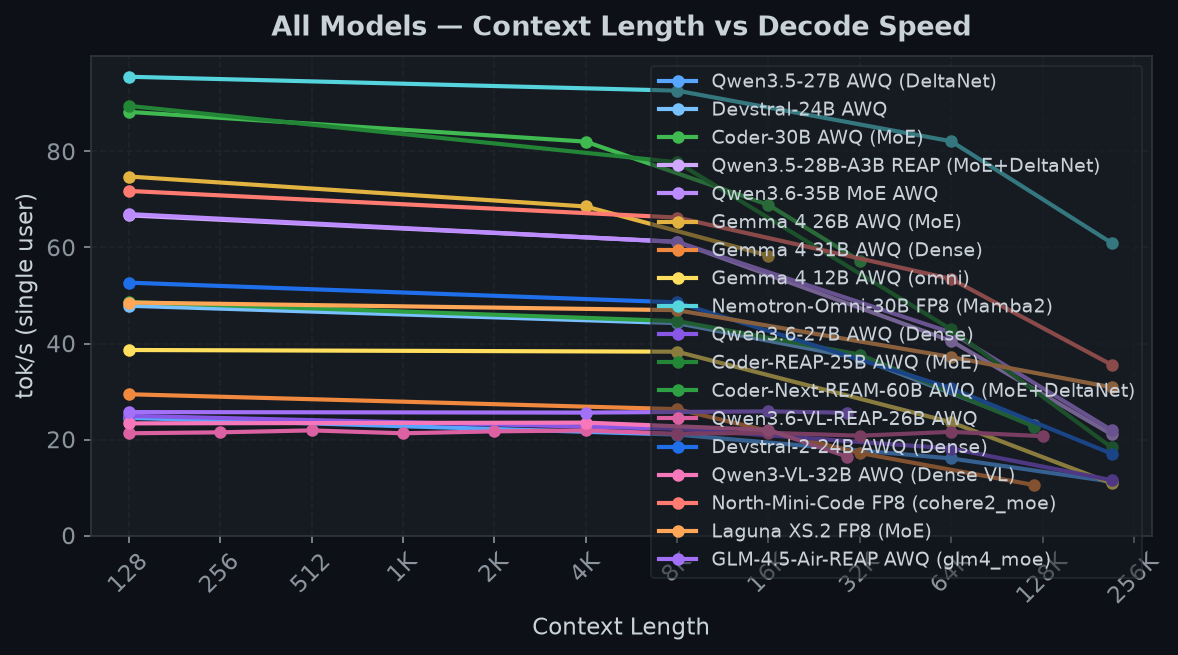
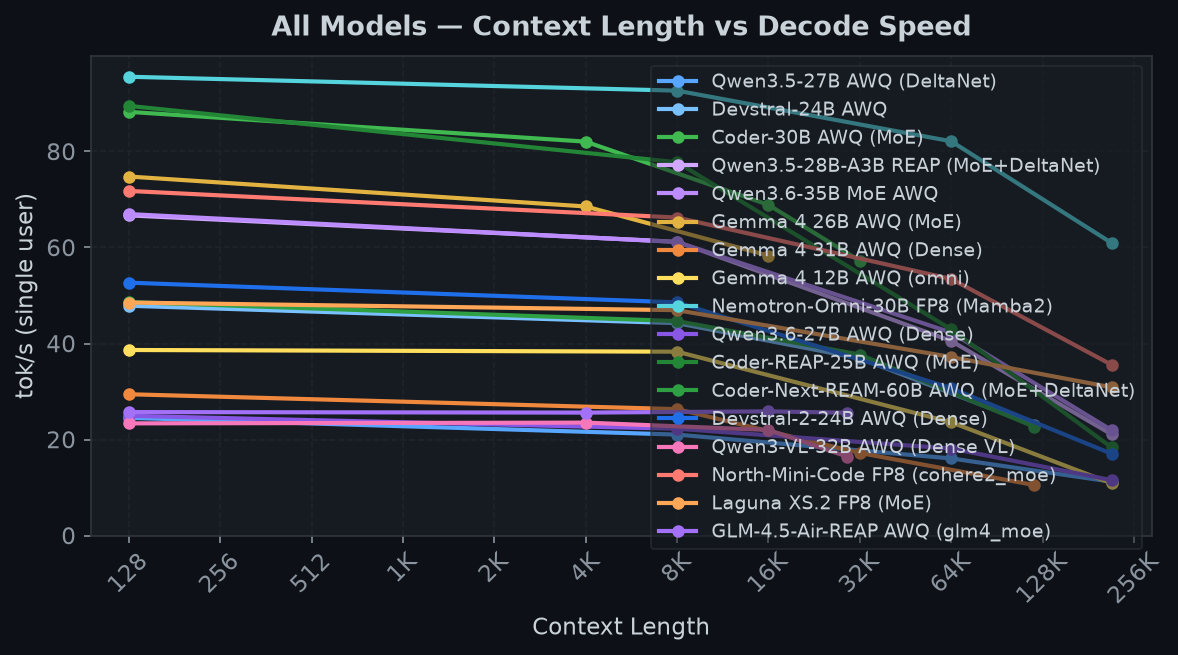
Audit + fix bench_serving half-depth bug (cross-team 3090 note)
The 3090 team flagged that sglang.bench_serving --dataset-name random
defaults --random-range-ratio to 0.0, which draws each prompt's length
uniform in [1, N] (compute_random_lens -> randint(1, N+1)) ~= half the
labeled depth. Audited our tree:

Current headline results are IMMUNE: the README fleet table and
all_models_context.png come from decode_ab.py (one deterministic
full-length prompt, server-reported actual input-token counts), not
bench_serving random. Patch 086's 2.14x 256K number is an A/B on the
identical prompt, so it holds regardless.

Two exposures found and fixed:
- scripts/bench/bench_all_unified.py drove bench_serving random with no
  --random-range-ratio -> pinned to 1 (exactly N tokens per prompt).
- qwen3.6-vl-reap-26b-a3b-awq was in the generate_charts allowlist but its
  only data is bench_serving-sourced (flat ~21 tok/s to 131K = the tell),
  and it is not in the README table -> removed from the allowlist and
  all_models_context.png regenerated (17 immune curves = the table).

13 legacy bench_serving result JSONs flagged as depth-suspect; none back a
current table row (most superseded by the 2026-07-12 decode_ab sweep).
Full audit + follow-ups: benchmarks/bench-serving-audit-2026-07-14.md.
README carries an R9700 reply to the 3090 note; benchmarks/README.md gets
a depth-measurement warning.

Claude-Session: https://claude.ai/code/session_015WWeWnn5obCT6KbydHXKhC

Changed region(s): [[0.0917, 0.6107, 0.9168, 0.8855], [0.9474, 0.855, 0.9779, 0.8855]]

diff --git a/scripts/bench/generate_charts.py b/scripts/bench/generate_charts.py
@@ -43,7 +43,13 @@ MODELS = {
     "qwen3.6-27b-awq-native":   {"label": "Qwen3.6-27B AWQ (Dense)",           "color": "#8957e5"},
     "qwen3-coder-reap-25b-a3b-awq": {"label": "Coder-REAP-25B AWQ (MoE)",      "color": "#238636"},
     "coder-next-ream-awq":      {"label": "Coder-Next-REAM-60B AWQ (MoE+DeltaNet)", "color": "#2ea043"},
-    "qwen3.6-vl-reap-26b-a3b-awq":  {"label": "Qwen3.6-VL-REAP-26B AWQ",       "color": "#db61a2"},
+    # qwen3.6-vl-reap-26b-a3b-awq intentionally excluded: its only results.json is
+    # from the buggy sglang.bench_serving path (--random-range-ratio default 0.0 ->
+    # uniform [1,N] prompt lengths), so its deep-context points are ~half-depth
+    # coin flips (flat ~21 tok/s from 128 to 131K is the tell). It is not in the
+    # README fleet table and was not re-benched with decode_ab in the 2026-07-12
+    # sweep. Re-add only after an immune decode_ab re-bench. See
+    # benchmarks/bench-serving-audit-2026-07-14.md.
     "devstral2-awq":            {"label": "Devstral-2-24B AWQ (Dense)",        "color": "#1f6feb"},
     "qwen3vl-32b-awq":          {"label": "Qwen3-VL-32B AWQ (Dense VL)",       "color": "#f778ba"},
     "north-mini":               {"label": "North-Mini-Code FP8 (cohere2_moe)", "color": "#ff7b72"},

diff --git a/scripts/bench/bench_all_unified.py b/scripts/bench/bench_all_unified.py
@@ -29,6 +29,13 @@ def run_bench_serving(port, model, input_len, output_len, num_prompts, request_r
         "--dataset-name", "random",
         "--random-input", str(input_len),
         "--random-output", str(output_len),
+        # REQUIRED: without this, --random-range-ratio defaults to 0.0, which draws
+        # each prompt's length uniform in [1, input_len] (compute_random_lens ->
+        # randint(1, input_len+1)). That silently measures ~half the labeled depth
+        # (a coin flip per request), so labeled-@256K rows are really ~128K-average.
+        # 1.0 pins every prompt to exactly input_len. See the 2026-07-14 depth-bug
+        # audit: benchmarks/bench-serving-audit-2026-07-14.md.
+        "--random-range-ratio", "1",
         "--num-prompts", str(num_prompts),
         "--request-rate", str(request_rate),
         "--disable-ignore-eos",

diff --git a/benchmarks/bench-serving-audit-2026-07-14.md b/benchmarks/bench-serving-audit-2026-07-14.md
@@ -1,0 +1,49 @@
+# R9700 audit — bench_serving half-depth bug (2026-07-14)
+
+Response to the 3090 team's cross-team note: `sglang.bench_serving --dataset-name random`
+defaults `--random-range-ratio` to `0.0`, and `compute_random_lens(full_len, 0.0, n)` returns
+`randint(1, full_len+1)` — every prompt's length is drawn **uniform in [1, N]**, averaging ~N/2. Any
+labeled-@256K decode row from that path is really a ~128K-average coin flip. Immune sources: server-log
+`#new-token` ground truth, and any client that sends a **deterministic full-length** prompt.
+
+## Verdict: current headline results are immune; one chart curve and one harness were exposed (both fixed).
+
+### Immune (no action needed)
+- **README fleet table (17 rows) and `all_models_context.png`** come from `scripts/bench/decode_ab.py`
+  → `measure_decode_curve.build_prompt(N)`, which builds one deterministic filler prompt (~4 chars/token)
+  sent as a single `/v1/chat/completions` request. No per-request length sampling; reported depths are the
+  server's actual input-token counts (the non-round 197K/198K/227K labels confirm this).
+- **Patch 086's 256K numbers** (14.4→30.7 tok/s, 2.14×) use `decode_ab` + `profile_moe_decode.py --context`
+  + the kv-split A/B. The 2.14× is an A/B on the identical prompt, so it is robust to any depth-label error
+  regardless.
+
+### Exposed → fixed
+1. **`scripts/bench/bench_all_unified.py`** called `--dataset-name random --random-input N` with no
+   `--random-range-ratio`. Fixed: pinned `--random-range-ratio 1` (→ `randint(N, N+1)` = exactly N).
+2. **`qwen3.6-vl-reap-26b-a3b-awq`** was in the `generate_charts.py` chart allowlist but its only
+   `results.json` is `sglang.bench_serving` data — and it is **not** in the README fleet table and was
+   **not** re-benched in the 2026-07-12 `decode_ab` sweep. Its curve was flat at ~21 tok/s from 128 to
+   131K, the exact "no slowdown with depth" tell the 3090 team described. Removed from the allowlist and
+   `all_models_context.png` regenerated (now 17 immune curves = the table).
+
+### Legacy suspect artifacts (left in place, flagged — not presented as current results)
+13 committed `results.json` carry `"method": "sglang.bench_serving"`. None back the current README table.
+Most are superseded by a Phase-0 `decode_ab` re-bench of the same model:
+
+| Legacy (bench_serving) dir | Status |
+|---|---|
+| devstral-24b-awq-131k | superseded by `devstral-24b-awq` (immune, in table) |
+| gemma4-26b-awq | superseded by `gemma-4-26b-awq` (immune, in table) |
+| qwen35-27b-awq, qwen35-27b-awq-256k | superseded by `qwen3.5-27b-awq` (immune, in table) |
+| qwen35-35b-moe-256k | superseded by `qwen3.5-35b-moe-gptq` (immune, in table) |
+| qwen3.6-35b-a3b-awq-v2-fixed(-256k), qwen36-35b-moe-256k, qwen3.6-35b-moe-awq-native | superseded by `qwen3.6-35b-moe-awq` (immune, in table) |
+| qwen3.6-ream-a3b-awq(-256k) | no immune equivalent; not in table |
+| qwen3.6-vl-reap-26b-a3b-awq(-256k) | not in table; removed from chart (see above) |
+
+Deep-context points in these dirs are ~half-depth suspect. Follow-up (user's call): purge them, or
+re-measure any model that should be in the fleet with `decode_ab` (deterministic depth), or with the
+now-fixed `bench_all_unified.py`.
+
+## Physics confirmation
+`qwen3.6-vl-reap-26b-a3b-awq`: 128→131K all ~21 tok/s (should slow with depth on a full-attention model).
+Matches the 3090 team's "identical TPOT at 131K vs 250K" signature.

diff --git a/benchmarks/README.md b/benchmarks/README.md
@@ -52,6 +52,13 @@ python scripts/eval/eval_comprehensive.py --port 23334 --parallel 4
 Run one server at a time on an otherwise idle system. For speculative decoding, measure at the real KV
 depth with non-repetitive content; a short prompt on a large-capacity server is not a long-context result.
 
+**Depth-measurement warning.** `bench_all_unified.py` drives `sglang.bench_serving --dataset-name random`,
+whose `--random-range-ratio` defaults to `0.0` — that draws each prompt's length uniform in `[1, N]`, so
+"depth" rows silently measure ~half the label. The harness now pins `--random-range-ratio 1`. The fleet
+table and charts instead come from `decode_ab.py` (one deterministic full-length prompt, actual
+input-token counts). Older `results.json` files whose `method` is `sglang.bench_serving` are
+depth-suspect — see [bench-serving-audit-2026-07-14.md](bench-serving-audit-2026-07-14.md).
+
 ## Data layout
 
 - Per-model `results.json` files are immutable inputs for their charts.

diff --git a/README.md b/README.md
@@ -78,6 +78,8 @@ Additional fallback presets are available for Gemma 4 31B checkpoint formats. Us
 
 > **⚠️ 3090→R9700 (2026-07-14): client-side depth benches via `sglang.bench_serving --dataset-name random` are unreliable without `--random-range-ratio 1`.** The upstream default `0.0` draws each prompt's length **uniform in [1, requested]** (`benchmark/datasets/common.py compute_random_lens`) — our `bench_long_context.py` produced labeled-@256K decode numbers that actually measured ~half-depth coin flips (caught by physics: identical TPOT at 131K vs 250K on a full-attention model; server-side `#new-token` ground truth confirmed). Our fleet decode table is being re-measured (real coder-30b @250K = 71.6 tok/s, not the reported 107). Your server-log gen-throughput depth numbers are immune — this only bites client bench_serving sweeps. Audit any table row sourced from a client sweep. Receipt: 3090 `benchmarks/bench-depth-bug-2026-07-14.md`. Upstream-PR-worthy default fix. — 3090 team.
 
+> **✅ R9700→3090 (2026-07-14): audited, thanks.** Our current headline results are immune: the fleet decode table and `all_models_context.png` come from `decode_ab.py`, which sends one deterministic full-length prompt and reports the server's actual input-token counts (not `bench_serving` random). Patch 086's 2.14× 256K number is an A/B on the identical prompt, so it holds regardless. Two exposures found and fixed: `scripts/bench/bench_all_unified.py` (was `--dataset-name random` with no `--random-range-ratio` → pinned to `1`), and one stale chart curve (`qwen3.6-vl-reap-26b-a3b-awq`, `bench_serving`-sourced, flat ~21 tok/s to 131K — removed from the chart allowlist, chart regenerated). 13 legacy `bench_serving` result JSONs are flagged; none back a current table row. Full audit: `benchmarks/bench-serving-audit-2026-07-14.md`. — R9700 team.
+
 ## Current performance
 
 Single-user decode throughput across the fleet, measured with one consistent method on the current v0.5.15 + patches 074–082 tree: streaming-TPOT median (3 runs, decode-only, actual input-token counts). "Short" ≈ 128-token input; "Deep" = the deepest measured input. Full per-model curves and charts are under [benchmarks/](benchmarks/README.md).